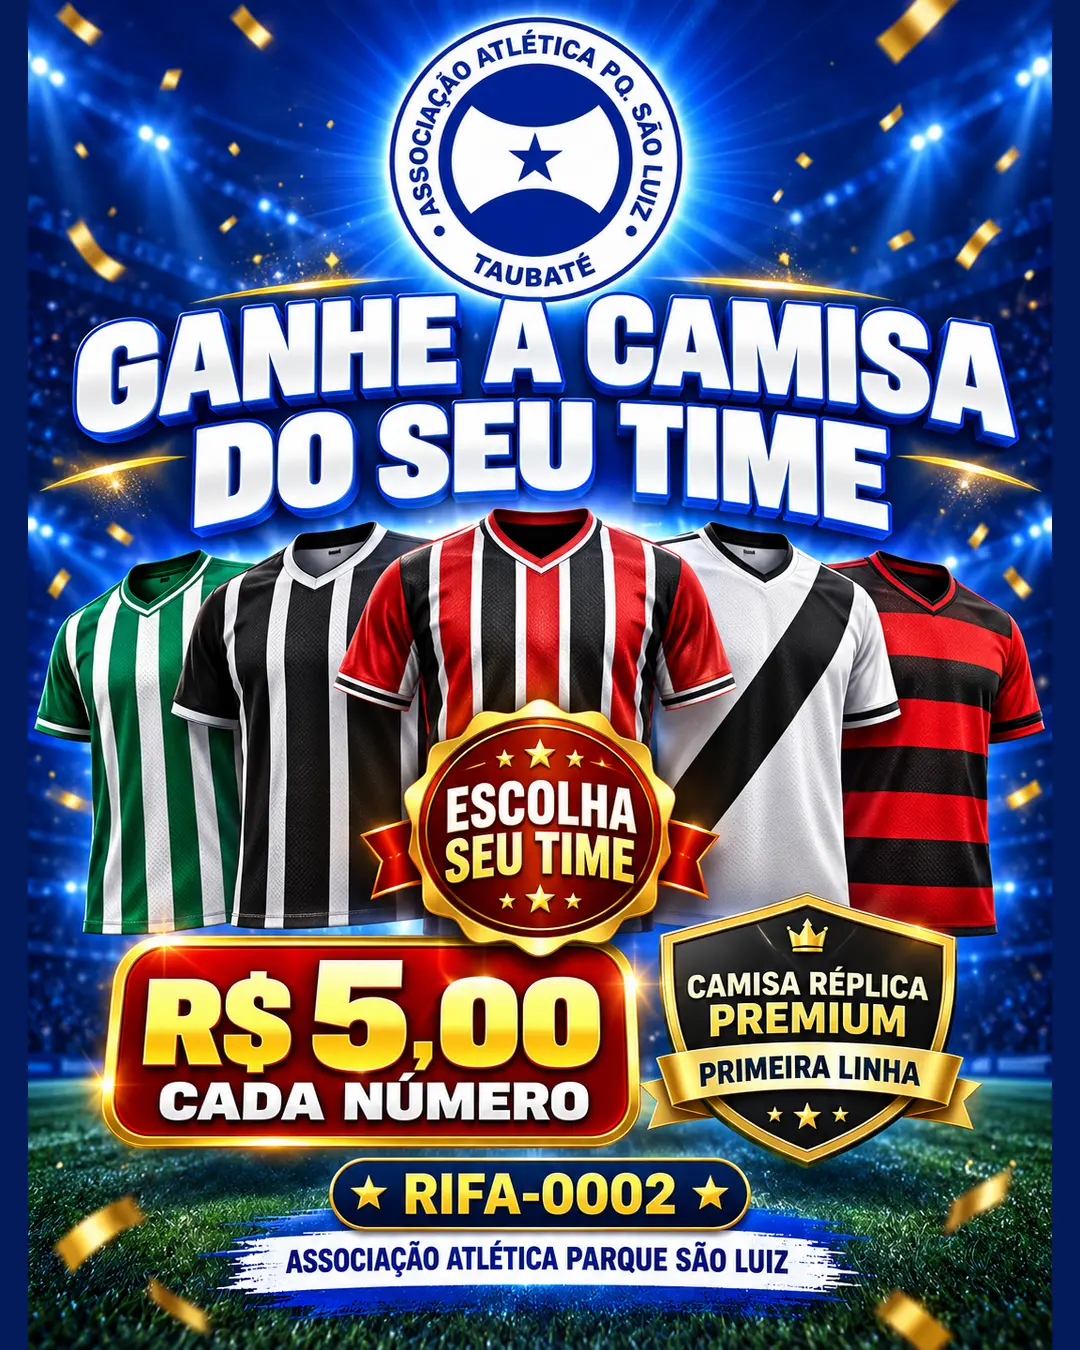
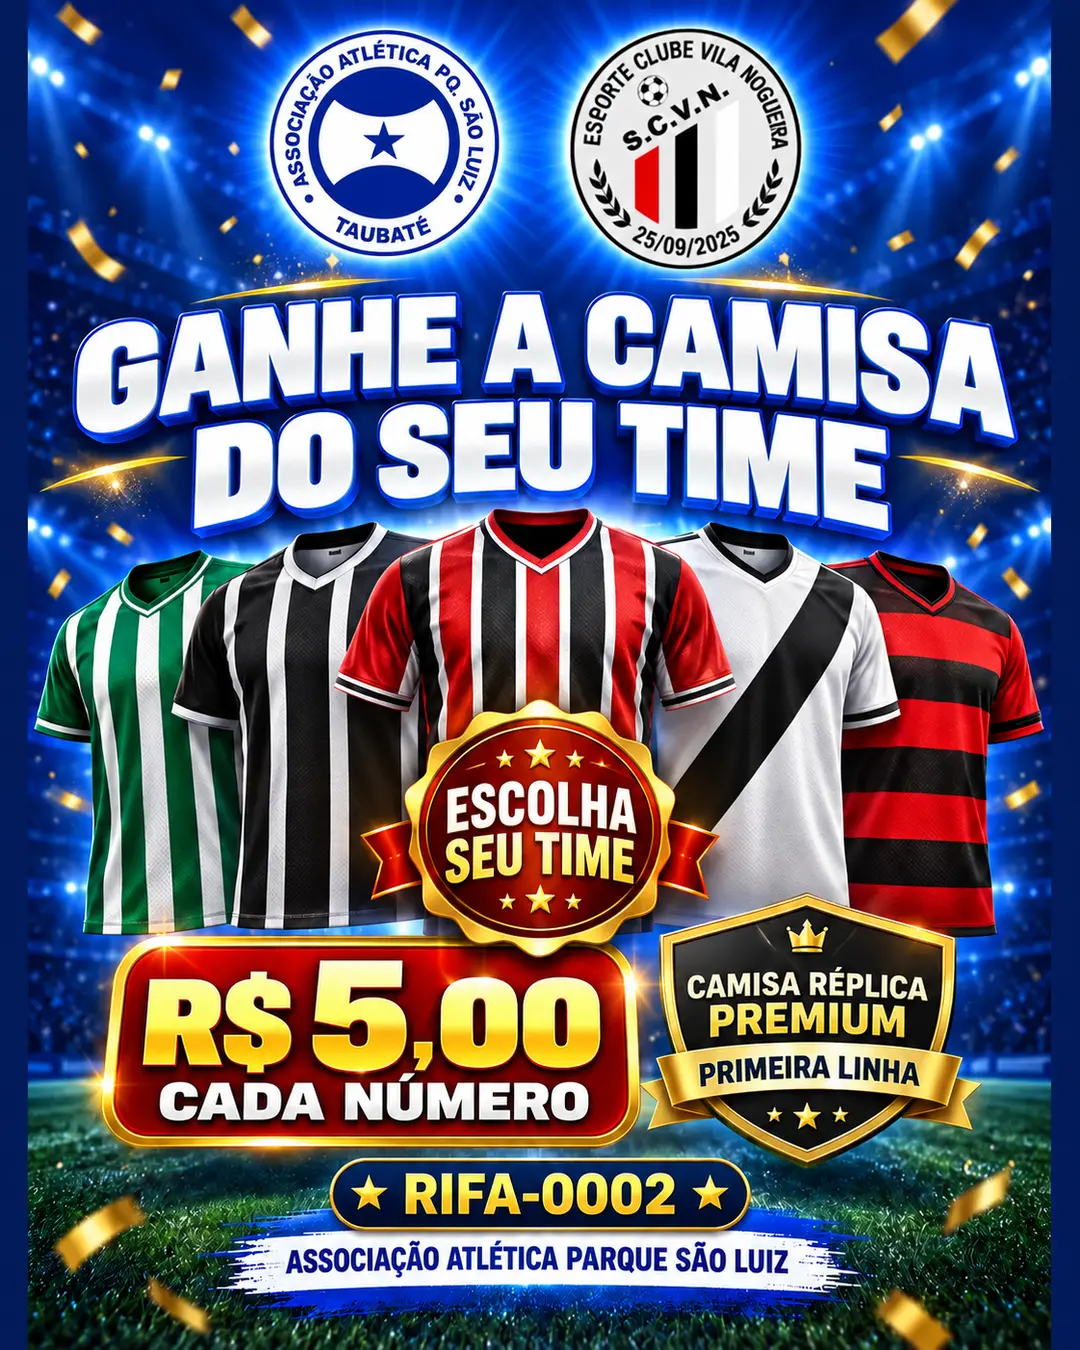
Adicionar escudo do Vila Nogueira à arte da RIFA-0002

diff --git a/sw.js b/sw.js
@@ -1,4 +1,4 @@
-const CACHE='rifa-psl-v3';
+const CACHE='rifa-psl-v4';
 const APP_SHELL=['./','./index.html','./rifa-0001.html','./rifa-0002.html','./manifest.webmanifest','./assets/topo-rifa-completo.webp','./assets/arte-rifa-0002.webp','./assets/escudo-psl.webp','./assets/perfume-malbec.webp'];
 self.addEventListener('install',event=>{event.waitUntil(caches.open(CACHE).then(cache=>cache.addAll(APP_SHELL)));self.skipWaiting()});
 self.addEventListener('activate',event=>{event.waitUntil(caches.keys().then(keys=>Promise.all(keys.filter(k=>k!==CACHE).map(k=>caches.delete(k)))));self.clients.claim()});
